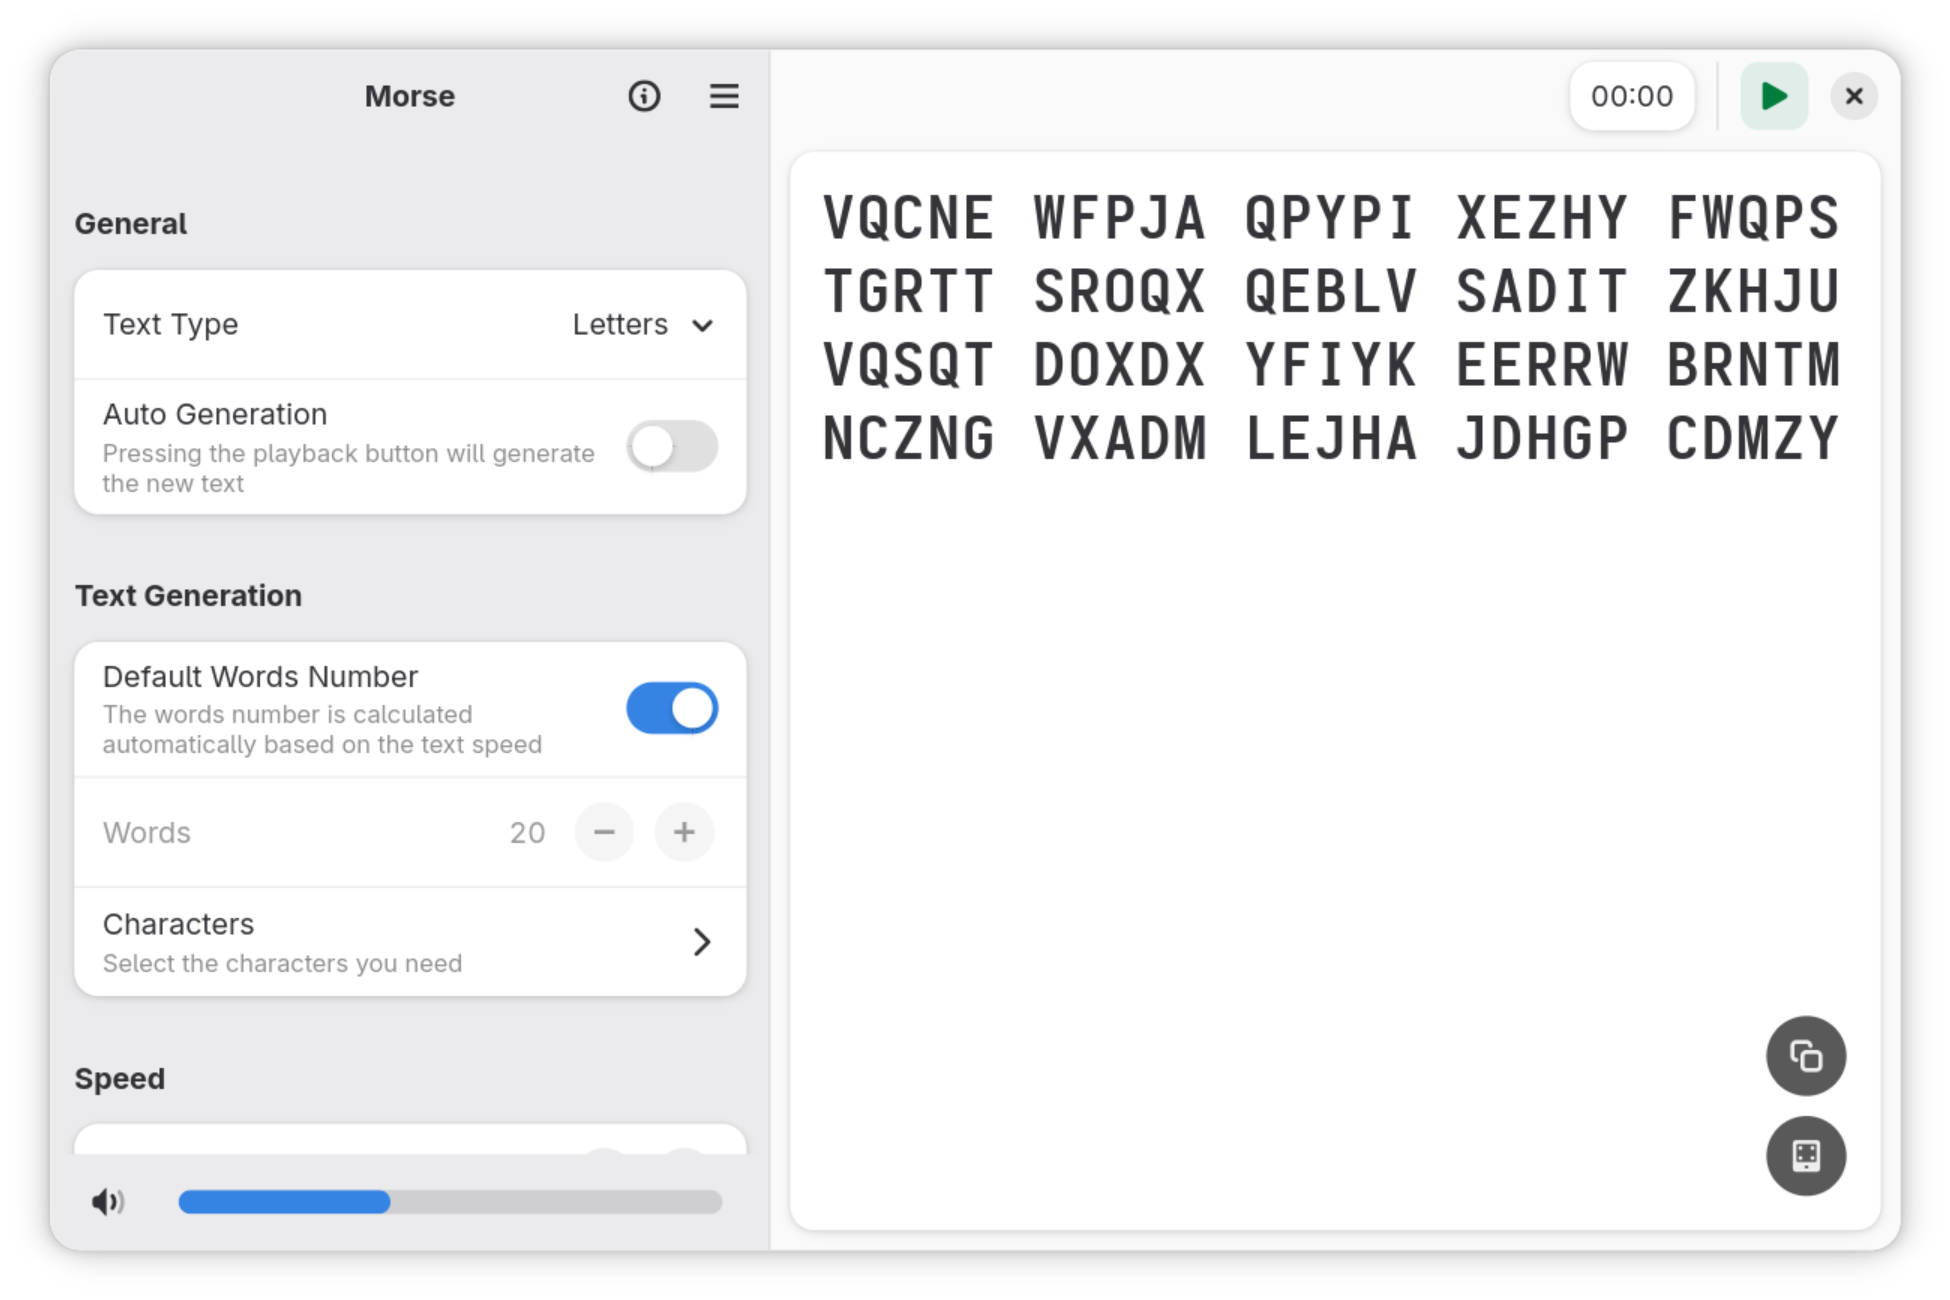
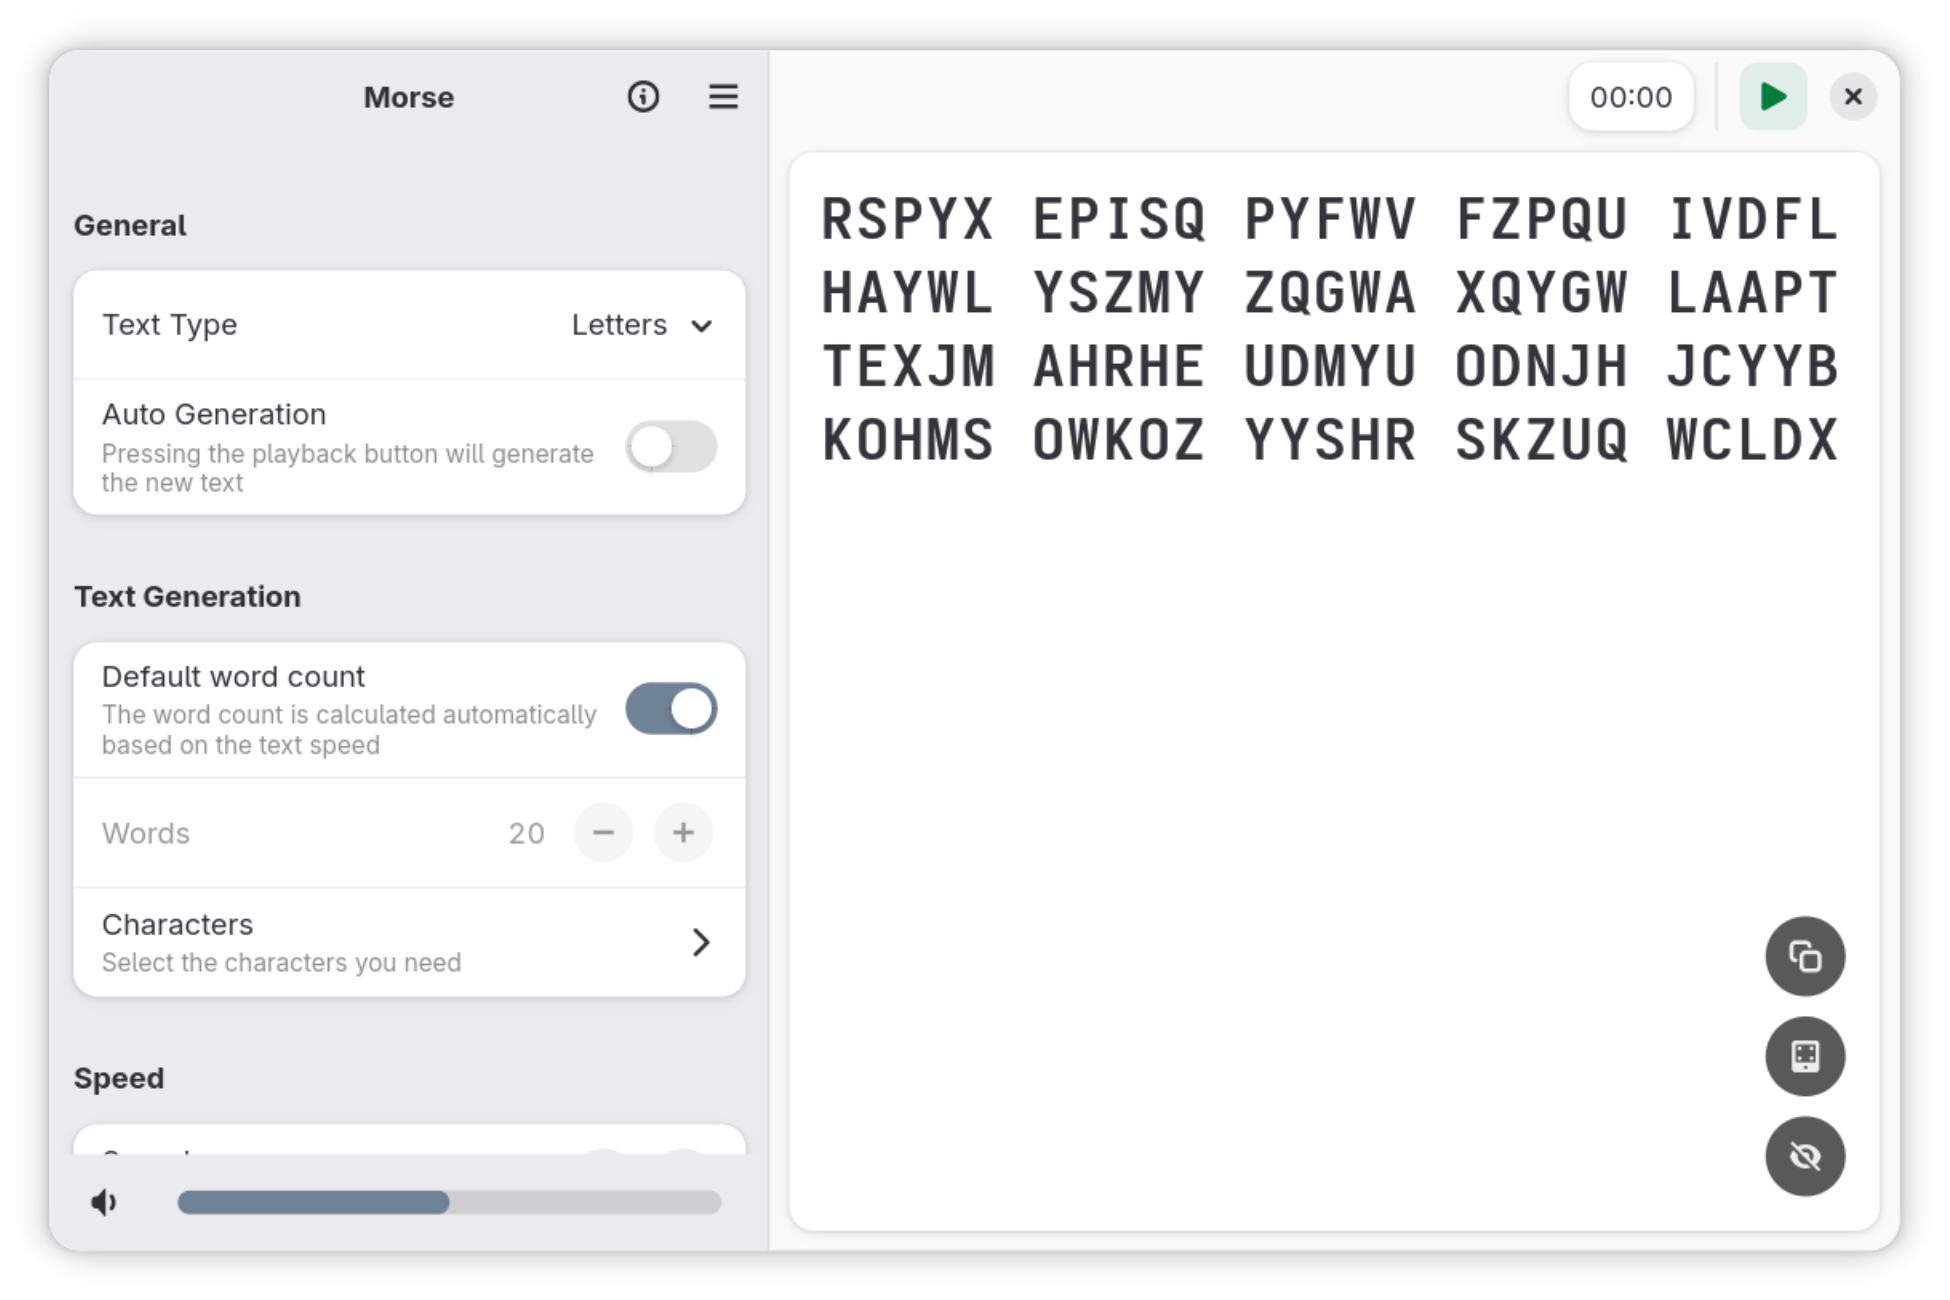
Up project version to 1.5.0

diff --git a/CHANGELOG.md b/CHANGELOG.md
@@ -1,5 +1,16 @@
 # Change Log
 
+## [1.5.0] - 2026-08-17
+
+### Added
+
+- Added a button to hide/reveal a Morse text
+
+### Changed
+
+- Updated dependencies
+- Updated translations
+
 ## [1.4.0] - 2026-06-27
 
 ### Added
